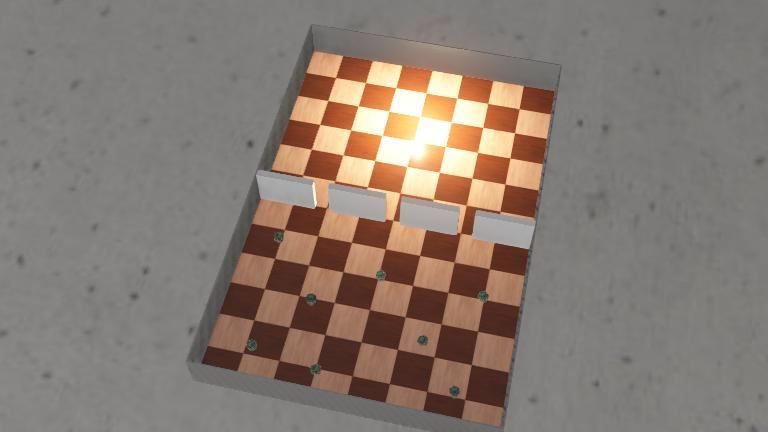
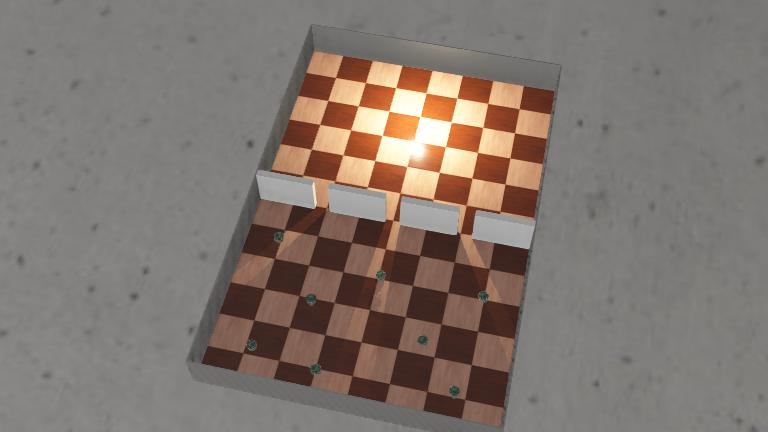
p2 > added arrival light check, fixed robots stuck in crossing and phototaxis, fixed speed orientation, added bottleneck handling

Changed region(s): [[0.3125, 0.1204, 0.7188, 0.8426]]

diff --git a/tutorials/webots/project_2/controllers/epuck_cross_wall/epuck_cross_wall.py b/tutorials/webots/project_2/controllers/epuck_cross_wall/epuck_cross_wall.py
@@ -12,6 +12,7 @@ GAP_THRESHOLD = 140.0
 LIGHT_THRESHOLD_RATIO = 0.12
 LIGHT_GAP_THRESHOLD = 0.12
 LIGHT_STEER_GAIN = 0.05
+ARRIVAL_LIGHT_THRESHOLD = 0.35
 
 COMM_CHANNEL = 7
 
@@ -65,6 +66,10 @@ wall_side = 1 if robot_id % 2 == 0 else -1
 state = EXPLORE
 stuck_steps = 0
 crossing_steps = 0
+crossing_blocked_steps = 0
+CROSSING_BLOCKED_LIMIT = int(1000 / timestep)
+phototaxis_stuck_steps = 0
+PHOTOTAXIS_STUCK_LIMIT = int(2000 / timestep)
 STUCK_STEP_LIMIT = int(3000 / timestep)
 
 # Main control loop: read sensors, process messages and update behavior
@@ -127,8 +132,8 @@ while robot.step(timestep) != -1:
         other_side_reading = right_side if wall_side > 0 else left_side
 
         if front_blocked:
-            left_speed = -0.25 * MAX_SPEED - 0.2 * MAX_SPEED * wall_side
-            right_speed = -0.25 * MAX_SPEED + 0.2 * MAX_SPEED * wall_side
+            left_speed = -0.25 * MAX_SPEED + 0.2 * MAX_SPEED * wall_side
+            right_speed = -0.25 * MAX_SPEED - 0.2 * MAX_SPEED * wall_side
             stuck_steps += 1
             if stuck_steps > STUCK_STEP_LIMIT:
                 print(f"[{robot.getTime():.3f}s] {name}: {state} -> EXPLORE: Stuck too long")
@@ -156,14 +161,15 @@ while robot.step(timestep) != -1:
             elif left_light > right_light + 0.03:
                 correction -= LIGHT_STEER_GAIN * MAX_SPEED
 
-            left_speed = base - correction * wall_side
-            right_speed = base + correction * wall_side
+            left_speed = base + correction * wall_side
+            right_speed = base - correction * wall_side
 
     # Announce that a hole has been found
     elif state == RECRUIT:
         emitter.send(f"HOLE:{name}".encode("utf-8"))
         print(f"[{robot.getTime():.3f}s] {name}: {state} -> CROSSING")
         crossing_steps = 0
+        crossing_blocked_steps = 0
         state = CROSSING
 
     # Move toward the source of the recruitment message
@@ -186,39 +192,70 @@ while robot.step(timestep) != -1:
     elif state == CROSSING:
         crossing_steps += 1
 
-        if left_light > right_light + 0.03:
-            left_speed = 0.45 * MAX_SPEED
-            right_speed = 0.7 * MAX_SPEED
-        elif right_light > left_light + 0.03:
-            left_speed = 0.7 * MAX_SPEED
-            right_speed = 0.45 * MAX_SPEED
-        elif front > OBSTACLE_THRESHOLD:
-            left_speed = -0.2 * MAX_SPEED
-            right_speed = 0.1 * MAX_SPEED
+        if front > OBSTACLE_THRESHOLD:
+            crossing_blocked_steps += 1
+            if crossing_blocked_steps > CROSSING_BLOCKED_LIMIT:
+                # randomized retreat to break symmetry with whoever is blocking us
+                turn_bias = random.choice([-1, 1])
+                left_speed = -0.2 * MAX_SPEED + turn_bias * 0.15 * MAX_SPEED
+                right_speed = -0.2 * MAX_SPEED - turn_bias * 0.15 * MAX_SPEED
+                if crossing_blocked_steps > CROSSING_BLOCKED_LIMIT + int(500 / timestep):
+                    print(f"[{robot.getTime():.3f}s] {name}: {state} -> EXPLORE: Congestion at hole, retreating")
+                    crossing_blocked_steps = 0
+                    state = EXPLORE
+            else:
+                left_speed = -0.2 * MAX_SPEED
+                right_speed = 0.1 * MAX_SPEED
         else:
-            left_speed = 0.6 * MAX_SPEED
-            right_speed = 0.6 * MAX_SPEED
+            crossing_blocked_steps = 0
 
-        if max(left_light, right_light) > LIGHT_GAP_THRESHOLD or crossing_steps > 80:
-            print(f"[{robot.getTime():.3f}s] {name}: {state} -> PHOTOTAXIS: Light detected or crossing timeout")
-            state = PHOTOTAXIS
+            if left_light > right_light + 0.03:
+                left_speed = 0.45 * MAX_SPEED
+                right_speed = 0.7 * MAX_SPEED
+            elif right_light > left_light + 0.03:
+                left_speed = 0.7 * MAX_SPEED
+                right_speed = 0.45 * MAX_SPEED
+            elif front > OBSTACLE_THRESHOLD:
+                left_speed = -0.2 * MAX_SPEED
+                right_speed = 0.1 * MAX_SPEED
+            else:
+                left_speed = 0.6 * MAX_SPEED
+                right_speed = 0.6 * MAX_SPEED
+
+            if max(left_light, right_light) > ARRIVAL_LIGHT_THRESHOLD or crossing_steps > 80:
+                print(f"[{robot.getTime():.3f}s] {name}: {state} -> PHOTOTAXIS: Light detected or crossing timeout")
+                state = PHOTOTAXIS
 
     # Steer toward the light source
     elif state == PHOTOTAXIS:
-        reference_light_value = (ls_values[0] + ls_values[7]) / 2.0
-        right_light_value = sum(ls_values[0:4]) / 4.0
-        left_light_value = sum(ls_values[4:8]) / 4.0
-        threshold = LIGHT_THRESHOLD_RATIO * reference_light_value
-
-        if reference_light_value - left_light_value > threshold:
-            left_speed = -0.25 * MAX_SPEED
-            right_speed = 0.5 * MAX_SPEED
-        elif reference_light_value - right_light_value > threshold:
-            left_speed = 0.5 * MAX_SPEED
-            right_speed = -0.25 * MAX_SPEED
+        if front_blocked:
+            phototaxis_stuck_steps += 1
         else:
-            left_speed = 0.5 * MAX_SPEED
-            right_speed = 0.5 * MAX_SPEED
+            phototaxis_stuck_steps = 0
+
+        if phototaxis_stuck_steps > PHOTOTAXIS_STUCK_LIMIT:
+            print(f"[{robot.getTime():.3f}s] {name}: {state} -> WALL_FOLLOW: Stuck against wall, retrying crossing")
+            phototaxis_stuck_steps = 0
+            state = WALL_FOLLOW
+        elif front_blocked:
+            # back off instead of blindly steering toward light into the wall
+            left_speed = -0.25 * MAX_SPEED
+            right_speed = 0.1 * MAX_SPEED
+        else:
+            reference_light_value = (ls_values[0] + ls_values[7]) / 2.0
+            right_light_value = sum(ls_values[0:4]) / 4.0
+            left_light_value = sum(ls_values[4:8]) / 4.0
+            threshold = LIGHT_THRESHOLD_RATIO * reference_light_value
+
+            if reference_light_value - left_light_value > threshold:
+                left_speed = -0.25 * MAX_SPEED
+                right_speed = 0.5 * MAX_SPEED
+            elif reference_light_value - right_light_value > threshold:
+                left_speed = 0.5 * MAX_SPEED
+                right_speed = -0.25 * MAX_SPEED
+            else:
+                left_speed = 0.5 * MAX_SPEED
+                right_speed = 0.5 * MAX_SPEED
 
     # Clamp the wheel speeds and apply them to the motors
     left_speed = max(-MAX_SPEED, min(MAX_SPEED, left_speed))
